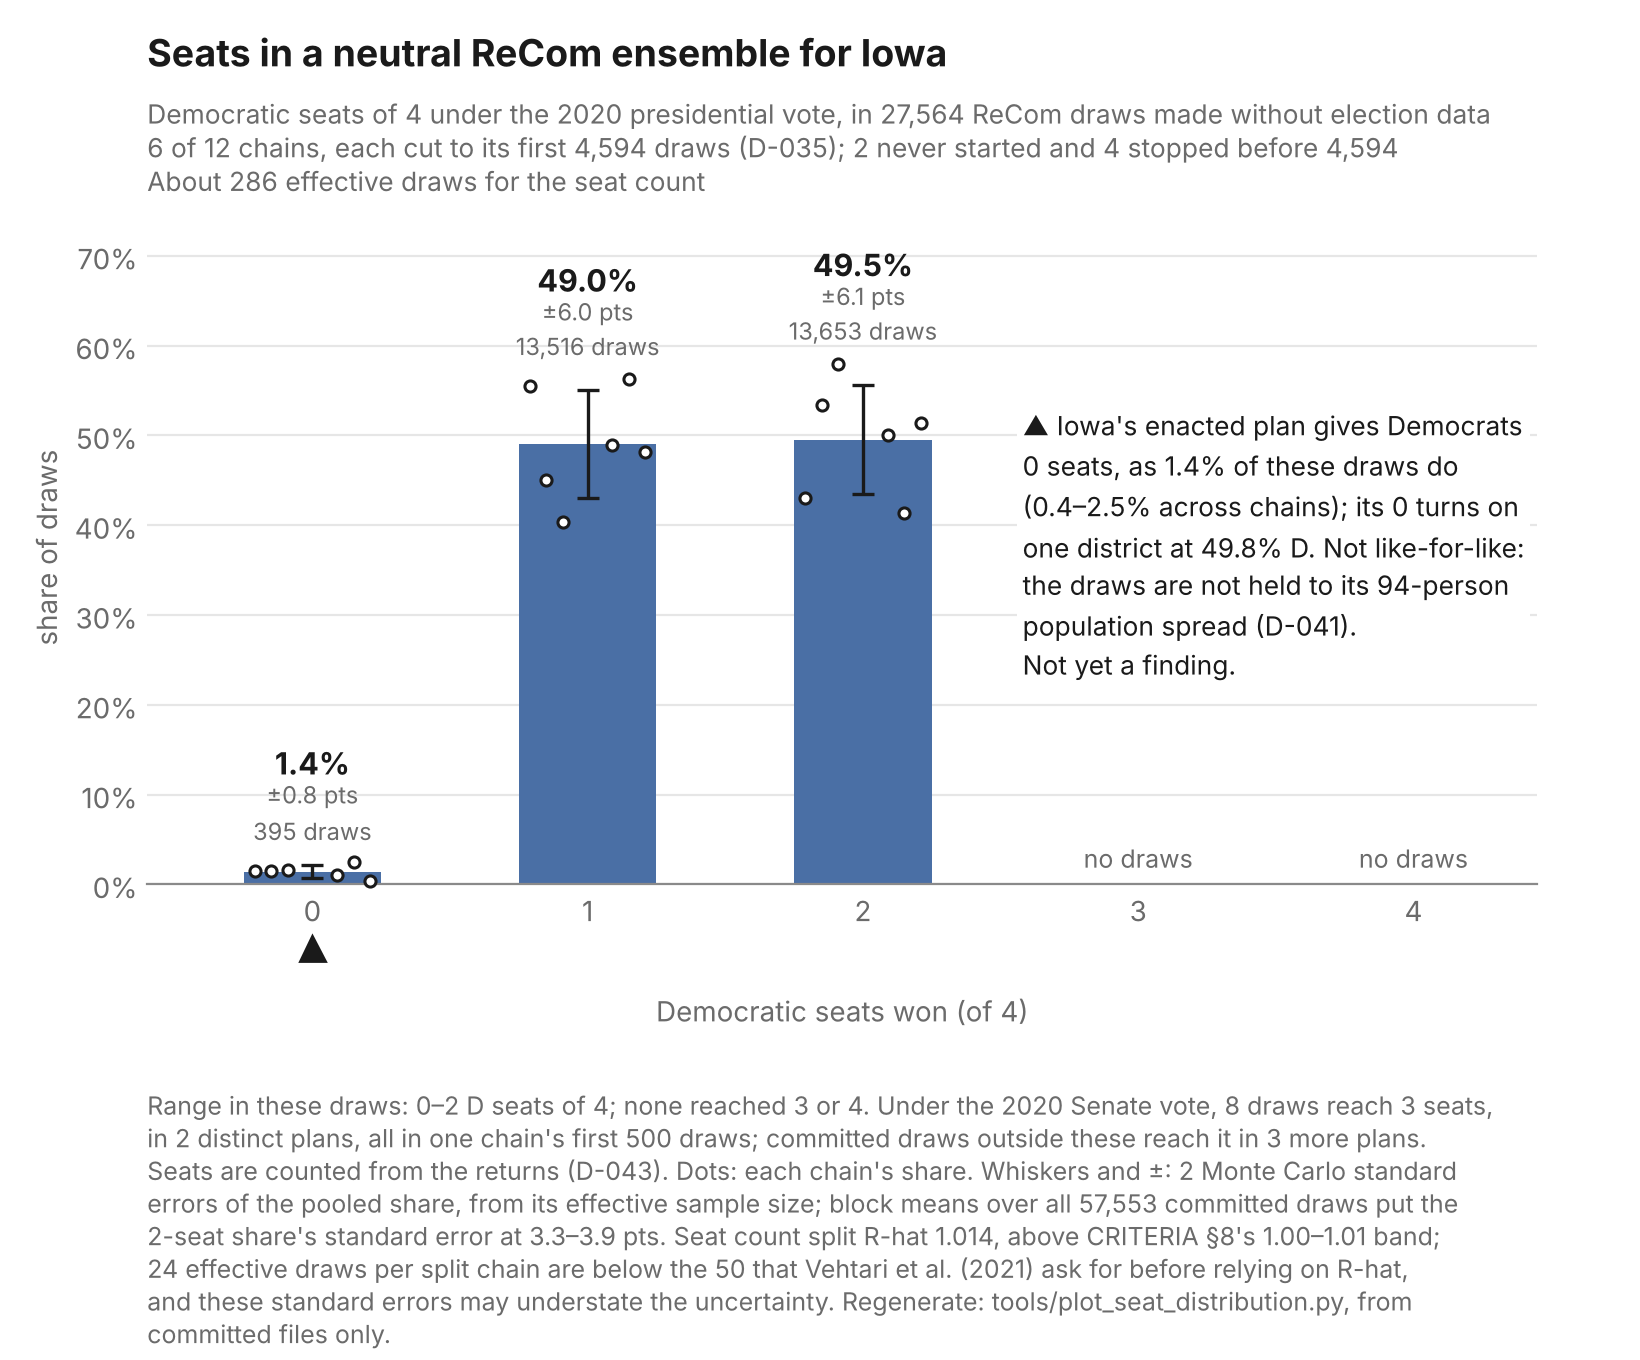
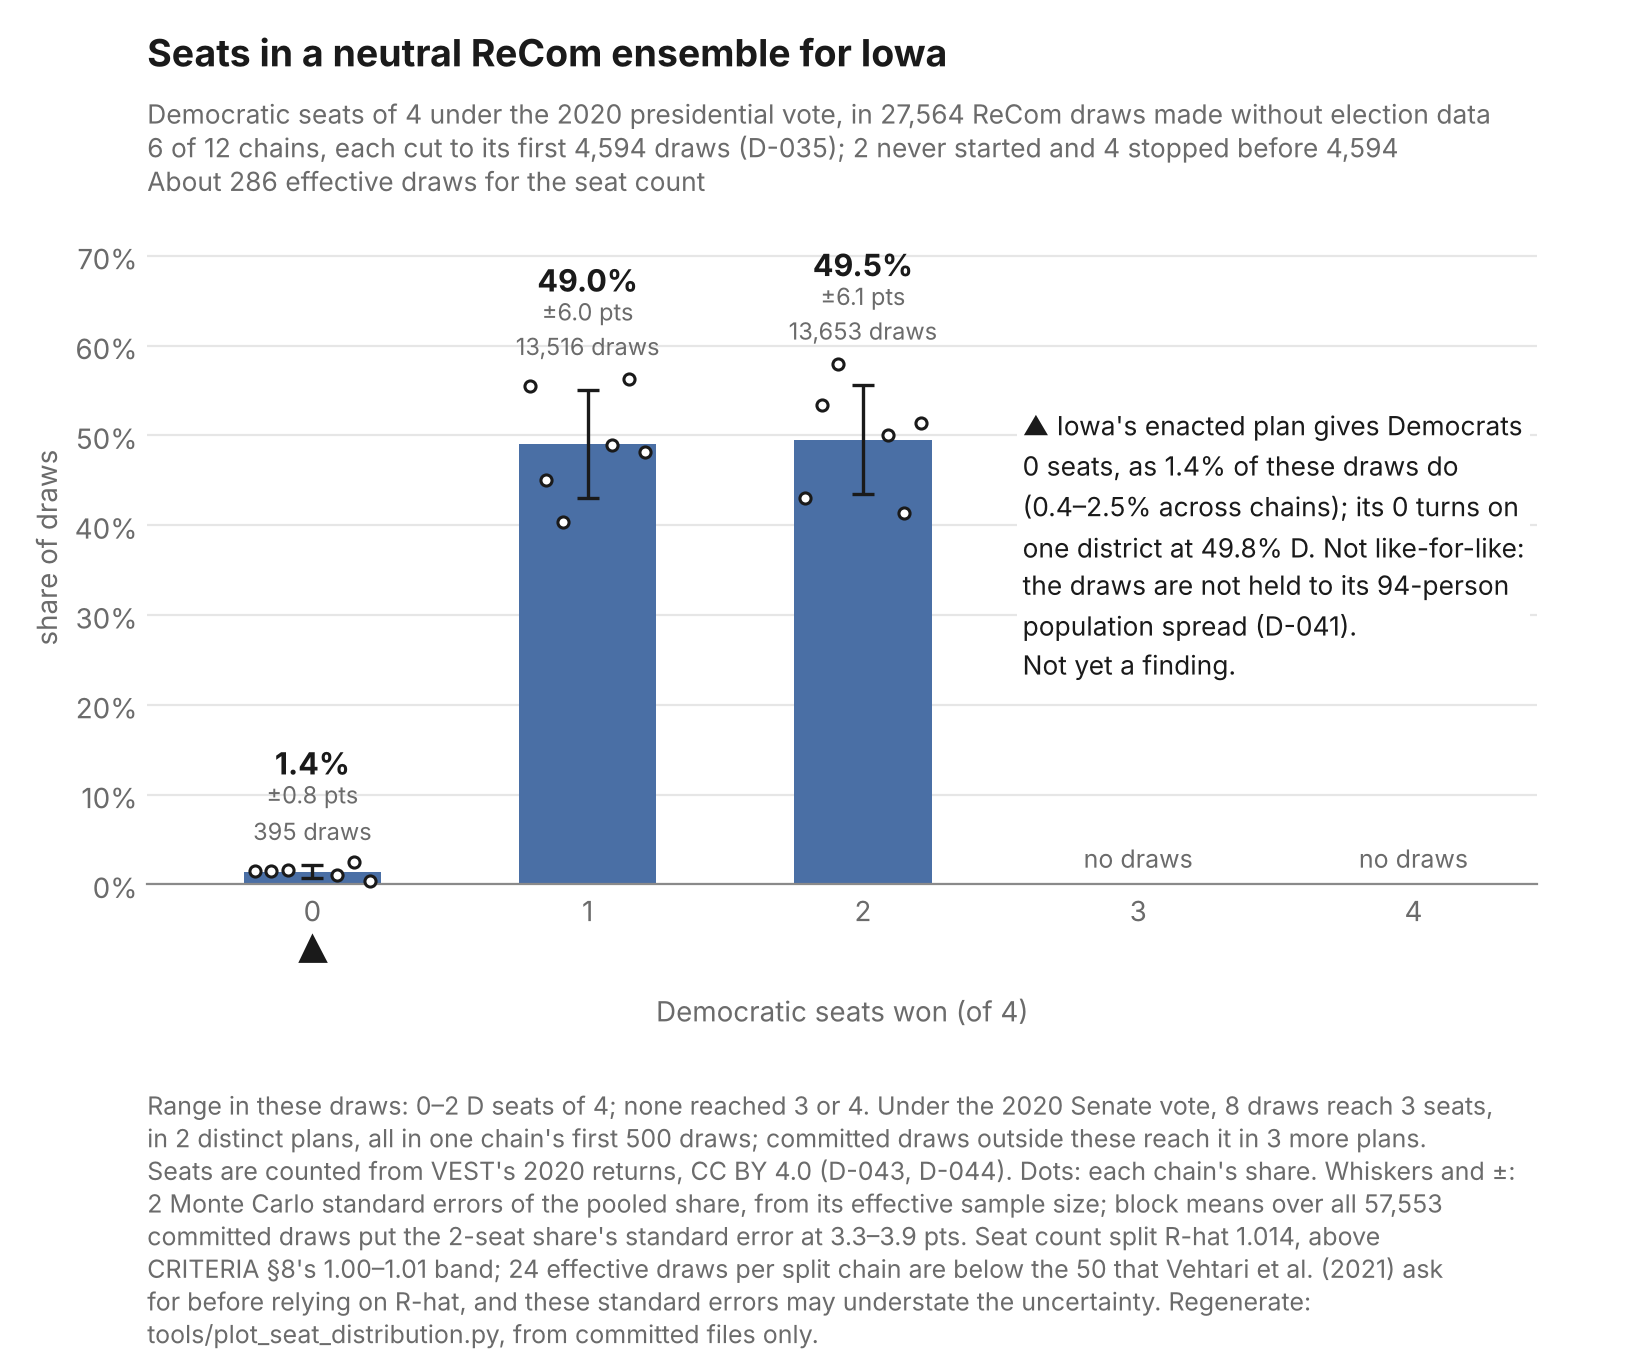
Credit VEST on the committed seat counts, as the owner chose (D-044)
The owner chose to commit the seat counts with VEST's credit and licence link,
and confirmed the decisions D-042 and D-043 quote. The counts are material
adapted from VEST's 2020 precinct returns, which VEST licenses under CC BY 4.0.

docs/first-result/ATTRIBUTION.md gives VEST's citation, the licence and its
link, what was changed, and VEST's disclaimer of warranties. The recount's
record carries the citation and the licence link; its write step rewrote the
record from the committed counts, which three full runs have written byte for
byte the same, so the draws were not regenerated for a change of credit. The
figure's footer credits VEST, since the figure travels without the README, and
the README's licence section names the licence, the adapted file and the
attribution where it said the returns carry no declared licence.

CRITERIA §9.1 and the other licence statements D-043 lists stay the owner's.

Claude-Session: https://claude.ai/code/session_016TQ4wY8qVW335hWHLfq9vg

Changed region(s): [[0.0933, 0.8338, 0.9018, 0.9882]]

diff --git a/tests/test_seat_distribution.py b/tests/test_seat_distribution.py
@@ -444,12 +444,23 @@ def test_the_count_s_record_names_the_draws_and_counts_read_here(tmp_path, monke
     assert (record["python"], record["gerrychain"]) == ("3.11.17", "1.0.0")
     # under Python 3.11, as the README pins it, every committed row reproduced
     assert set(record["largest_float_difference"].values()) == {0.0}
-    # the returns: VEST's version 49 file, which D-043 names, by the files read
+    # the returns: VEST's version 49 file, which D-043 names, by the files read,
+    # with the credit and licence link the counts carry as adapted material (D-044)
+    credit = ('Voting and Election Science Team, 2020, "2020 Precinct-Level Election '
+              'Results", https://doi.org/10.7910/DVN/K7760H, Harvard Dataverse, V49')
+    licence = "https://creativecommons.org/licenses/by/4.0/"
     assert record["returns_source"] == {
         "dataset": "doi:10.7910/DVN/K7760H", "version": "49.0", "file_id": 14304797,
         "file": "ia_2020.zip", "md5": "500252facae6107b93128406ebf5177b",
[3 lines of base64/hex data omitted]
+        "credit": credit, "license": f"CC BY 4.0, {licence}"}
+    # and beside the counts, the same credit, the licence and its link
+    notice = " ".join((S.RECOUNT.parent / "ATTRIBUTION.md").read_text().split())
+    for part in ('Voting and Election Science Team, 2020, "2020 Precinct-Level Election '
+                 'Results"', "https://doi.org/10.7910/DVN/K7760H", "Harvard Dataverse, V49",
+                 "CC BY 4.0", licence, "WITHOUT WARRANTY OF ANY KIND"):
+        assert part in notice
     for change, why in (
             (lambda r: r.update(draws_sha256="0" * 64), "a draws file other than"),
             (lambda r: r.update(counts_sha256="0" * 64), "a counts file other than"),
@@ -616,7 +627,8 @@ def test_the_figure_text_is_pinned(dist):
                    "reach it in 3 more plans.",
                    "2-seat share's standard error at 3.3–3.9 pts",
                    "R-hat 1.014, above CRITERIA §8's 1.00–1.01 band",
-                   "Seats are counted from the returns (D-043). Dots"):
+                   "Seats are counted from VEST's 2020 returns, CC BY 4.0 (D-043, "
+                   "D-044). Dots"):
         assert phrase in footer
     assert all(len(line) <= S.FOOTER_WIDTH for line in text["footer"])
 

diff --git a/tools/recount_seats.py b/tools/recount_seats.py
@@ -80,7 +80,9 @@ unpacked in ``data/raw/vest/``, ``tools/prepare_data.py``) and gerrychain as
 seeds, and the run then fails. No plan is kept: each is measured, counted, keyed
 and dropped. No vote count from the returns is written: the files hold seat
 counts, and the record holds the certified statewide totals the returns are
-checked against.
+checked against. The counts are adapted from VEST's dataset, which VEST licenses
+under CC BY 4.0; the record carries VEST's credit and the licence link, and
+``docs/first-result/ATTRIBUTION.md`` gives both, with what was changed (D-044).
 
 These are the committed draws regenerated, not new ones: the sampler is asked
 for each chain's committed draws and no more, and a draw that does not
@@ -128,14 +130,19 @@ VEST = tuple(ROOT / "data" / "raw" / "vest" / f"ia_2020.{ext}"
              for ext in ("zip", "dbf", "shp"))
 #: The file the committed count was made from (D-043): VEST's 2020 precinct
 #: returns on the Harvard Dataverse, with the MD5 Dataverse publishes for the
-#: zip and the SHA-256 of the two members tools/prepare_data.py reads. The
-#: record names it only when those members are the files read here
-#: (:func:`returns_source`).
+#: zip and the SHA-256 of the two members tools/prepare_data.py reads, and the
+#: credit and licence the counts carry as material adapted from it (D-044;
+#: docs/first-result/ATTRIBUTION.md). The record names it only when those
+#: members are the files read here (:func:`returns_source`).
 VEST_SOURCE = {"dataset": "doi:10.7910/DVN/K7760H", "version": "49.0",
                "file_id": 14304797, "file": "ia_2020.zip",
                "md5": "500252facae6107b93128406ebf5177b",
[3 lines of base64/hex data omitted]
+               "credit": "Voting and Election Science Team, 2020, \"2020 Precinct-Level "
+                         "Election Results\", https://doi.org/10.7910/DVN/K7760H, "
+                         "Harvard Dataverse, V49",
+               "license": "CC BY 4.0, https://creativecommons.org/licenses/by/4.0/"}
 
 #: Iowa's certified 2020 two-party totals, ``(D, R)``, as tools/prepare_data.py
 #: and tests/test_elections.py assert them. The unsigned metrics the draws file

diff --git a/tools/plot_seat_distribution.py b/tools/plot_seat_distribution.py
@@ -878,7 +878,8 @@ def figure_text(d: dict) -> dict:
     footer = textwrap.wrap(
         f"Range in these draws: {min(span)}–{max(span)} D seats of {k}"
         + (f"; none reached {' or '.join(map(str, missing))}." if missing else ".") + reach
-        + " Seats are counted from the returns (D-043). Dots: each chain's share. "
+        + " Seats are counted from VEST's 2020 returns, CC BY 4.0 (D-043, D-044). "
+        "Dots: each chain's share. "
         "Whiskers and ±: 2 Monte Carlo standard errors of the pooled share, from "
         f"its effective sample size{block}. Seat\u00a0count split R-hat {rhat:.3f}, {where} "
         f"CRITERIA §8's {RHAT_BAND[0]:.2f}–{RHAT_BAND[1]:.2f} band"

diff --git a/docs/DECISIONS.md b/docs/DECISIONS.md
@@ -1344,6 +1344,8 @@ on population equality matching "on a constraint", which read the enacted plan's
 
 **Date:** 2026-10-11 · **Phase:** post-release
 
+*Since:* the owner confirmed both decisions below on 2026-10-12 (D-044).
+
 The decision log's rule is that entries aren't rewritten, and a reversal is a new
 entry (`CLAUDE.md`, and this file's preamble). D-039 and D-041 were written in the
 change that became pull request #7, which has not merged, and both were corrected
@@ -1389,6 +1391,10 @@ four.
 ## D-043 — Every committed Iowa draw's seats are counted from the returns, and the reading agrees
 
 **Date:** 2026-10-11 · **Phase:** post-release
+
+*Since:* the owner confirmed both decisions below and answered the licence
+question it leaves for merge: the counts carry VEST's credit and the licence link
+(D-044).
 
 D-039 reads each draw's Democratic seats off its committed |efficiency gap|,
 because the draws file holds metrics, not plans. Its fourth audit showed that the
@@ -1538,3 +1544,43 @@ counts; and named one owner's decision of two. The fifth agent audit in
 The second version called the licence statements stale, when version 48's own
 record already stated CC BY 4.0, and its list of them was incomplete; the
 Pre-Submission Peer Reviewer agent's second review showed both.
+
+## D-044 — The seat counts carry VEST's credit and its licence link
+
+**Date:** 2026-10-12 · **Phase:** post-release
+
+D-043 left two questions for the owner, to answer before merge: whether the
+committed seat counts need VEST's credit and a licence link under CC BY 4.0, and
+whether they are election data under `docs/CRITERIA.md` §9.1. It also asked the
+owner to confirm the decisions D-042 and D-043 quote.
+
+*Chosen, by the owner,* on 2026-10-12, in conversation with the author: "Commit
+the seat counts with a VEST credit and license link. I confirm the decisions." So
+the counts are committed as material adapted from VEST's dataset, which VEST
+licenses under CC BY 4.0, and the four decisions D-042 and D-043 quote stand as
+recorded there. The author carried the credit and the link to where the counts
+and what is drawn from them are read:
+
+- `docs/first-result/ATTRIBUTION.md` gives VEST's citation, the licence and its
+  link, what was changed (the precinct returns summed to counties, then seats
+  counted per draw; no vote count kept), and VEST's disclaimer of warranties;
+- the recount's record, `docs/first-result/ia-seats-v2.json`, carries the
+  citation and the licence link in `returns_source`. The recount's own write
+  step wrote it from the committed counts and the last full run's float
+  differences (all 0.0), without regenerating the draws again: three full runs
+  have written the counts byte for byte the same, and a credit changes nothing
+  they measure;
+- the first-result figure's footer credits VEST and names the licence, because
+  the figure travels without the README;
+- the README's licence section names VEST's licence, the adapted file and the
+  attribution, where it said the returns carry no declared licence.
+
+*Alternatives:* committing the counts without a credit, or withdrawing them so
+that only the reading stands. The owner chose neither.
+
+*Still the owner's:* `docs/CRITERIA.md` §9.1, which still says no licence is
+declared, and the other statements D-043 lists (`CITATION.cff`, the release notes
+in `.github/workflows/release.yml`, the comments in `.github/workflows/tests.yml`,
+`tests/dataguard.py` and `tests/test_experiment_3_plans.py`, and D-039's "the
+returns cannot be redistributed"), and which licence, if any, the repository
+offers its own adaptation, the counts, under.

diff --git a/README.md b/README.md
@@ -13,7 +13,7 @@ map adoption.**
 
 ## First result
 
-![Bar chart of Democratic seats won, of 4, across 27,564 neutral ReCom draws for Iowa under the 2020 presidential vote: 0 seats in 1.4% of draws (±0.8 points), 1 seat in 49.0% and 2 seats in 49.5%, each of those two with whiskers of about ±6 points (2 Monte Carlo standard errors by one estimate; others run higher), and none at 3 or 4; the six chains range from 41% to 58% at 2 seats and from 0.4% to 2.5% at 0. Iowa's enacted plan is marked at 0 seats; the figure's note says its 0 turns on one district at 49.8% Democratic, that the comparison is not like-for-like because the draws are not held to the plan's 94-person population spread, and that it is not yet a finding. The footer says each draw's seats are counted from the returns (D-043).](docs/figures/ia-neutral-seat-distribution.png)
+![Bar chart of Democratic seats won, of 4, across 27,564 neutral ReCom draws for Iowa under the 2020 presidential vote: 0 seats in 1.4% of draws (±0.8 points), 1 seat in 49.0% and 2 seats in 49.5%, each of those two with whiskers of about ±6 points (2 Monte Carlo standard errors by one estimate; others run higher), and none at 3 or 4; the six chains range from 41% to 58% at 2 seats and from 0.4% to 2.5% at 0. Iowa's enacted plan is marked at 0 seats; the figure's note says its 0 turns on one district at 49.8% Democratic, that the comparison is not like-for-like because the draws are not held to the plan's 94-person population spread, and that it is not yet a finding. The footer says each draw's seats are counted from VEST's 2020 returns, licensed CC BY 4.0 (D-043, D-044).](docs/figures/ia-neutral-seat-distribution.png)
 
 Across 27,564 draws from a ReCom sampler with no access to election data, **a
 neutral ensemble for Iowa gives Democrats 0–2 of 4 seats under the 2020
@@ -444,7 +444,15 @@ validated, not for litigation, advocacy, or map adoption.**
 Apache License 2.0 — see `LICENSE`.
 
 This covers the code and documentation in this repository. It does **not** cover
-the input data, none of which is redistributed here. Census inputs are public
-domain (17 U.S.C. §105); the election returns carry no declared licence at all,
-which is why `data/` is gitignored and `tools/fetch_raw.sh` sends you to the
-source. See `docs/CRITERIA.md` §9.1.
+the input data, which are not redistributed here: `data/` is gitignored, and
+`tools/fetch_raw.sh` sends you to the sources. Census inputs are public domain
+(17 U.S.C. §105). The election returns are the Voting and Election Science
+Team's *2020 Precinct-Level Election Results*
+(<https://doi.org/10.7910/DVN/K7760H>), which VEST licenses under CC BY 4.0
+(<https://creativecommons.org/licenses/by/4.0/>).
+
+One committed file is adapted from them: `docs/first-result/ia-seats-v2.csv.gz`,
+the seat counts of every committed Iowa draw. `docs/first-result/ATTRIBUTION.md`
+gives VEST's credit, the licence link and what was changed (D-044), and the
+first-result figure credits VEST in its footer. The data policy in
+`docs/CRITERIA.md` §9.1 was written before VEST's licence was read (D-043).

diff --git a/docs/progress.md b/docs/progress.md
@@ -2487,17 +2487,19 @@ reads: its SHA-256, configuration, chains, contests and certified totals.
 
 The returns are VEST's Iowa file as Harvard Dataverse served it on 2026-10-11:
 dataset version 49, uploaded 2026-10-03, whose attribute table holds the same
-values as version 48's (D-043). Every committed |efficiency gap| and
-|mean-median|, under both contests, reproducing exactly on every plan the chains
-visit ties the count to the district totals the draws were measured with.
-|Efficiency gap| alone could not: it does not move when an even number of votes
-shifts between districts the same party wins, or when the parties trade votes
-across two counties, wherever no district changes hands. Both metrics are
-unsigned, so which party is which is fixed separately: the recount refuses unless
-each contest's statewide two-party totals equal the certified ones. The code does
-not check the county totals themselves; the redistricting scientist agent compared
-all 99 with the Secretary of State's canvass under both contests and found none
-different, which the GIS QA Engineer has not confirmed.
+values as version 48's (D-043). VEST licenses it under CC BY 4.0, and the counts
+carry VEST's credit and the licence link (`docs/first-result/ATTRIBUTION.md`,
+D-044). Every committed |efficiency gap| and |mean-median|, under both contests,
+reproducing exactly on every plan the chains visit ties the count to the district
+totals the draws were measured with. |Efficiency gap| alone could not: it does not
+move when an even number of votes shifts between districts the same party wins, or
+when the parties trade votes across two counties, wherever no district changes
+hands. Both metrics are unsigned, so which party is which is fixed separately: the
+recount refuses unless each contest's statewide two-party totals equal the
+certified ones. The code does not check the county totals themselves; the
+redistricting scientist agent compared all 99 with the Secretary of State's
+canvass under both contests and found none different, which the GIS QA Engineer
+has not confirmed.
 
 **Distinct plans, counted rather than bounded.** Earlier versions of this section
 counted distinct rows of the committed metrics and called them a lower bound on

diff --git a/docs/first-result/ATTRIBUTION.md b/docs/first-result/ATTRIBUTION.md
@@ -1,0 +1,33 @@
+# Attribution — `ia-seats-v2.csv.gz`
+
+The seat counts in `ia-seats-v2.csv.gz`, in this directory, are adapted from:
+
+> Voting and Election Science Team, 2020, "2020 Precinct-Level Election Results",
+> <https://doi.org/10.7910/DVN/K7760H>, Harvard Dataverse, V49 (file `ia_2020.zip`,
+> Iowa).
+
+VEST licenses that dataset under the Creative Commons Attribution 4.0
+International licence (CC BY 4.0): <https://creativecommons.org/licenses/by/4.0/>.
+
+**What was changed.** The file holds no vote count from the dataset.
+`tools/prepare_data.py` summed Iowa's precinct returns to its 99 counties, and
+`tools/recount_seats.py` counted, for each committed draw of the v2 ensemble, how
+many districts the Democratic candidate won under the 2020 presidential vote and
+under the 2020 U.S. Senate vote (D-043). Beside each draw's two counts the file
+holds a key for its plan, which comes from the plan alone, not from the returns.
+The record beside it, `ia-seats-v2.json`, names the dataset, version and file the
+counts were made from, with their hashes, and carries the same credit and licence
+link.
+
+**No warranty.** VEST's dataset carries this disclaimer: "THE DATA ARE PROVIDED
+“AS IS” WITHOUT WARRANTY OF ANY KIND. WE MAKE NO AND DISCLAIM ALL WARRANTIES,
+EXPRESS OR IMPLIED, INCLUDING THE IMPLIED WARRANTIES OF MERCHANTABILITY, FITNESS
+FOR A PARTICULAR PURPOSE AND NONINFRINGEMENT, WITH RESPECT TO THESE DATA. WE MAKE
+NO REPRESENTATIONS OR WARRANTIES AS TO THE QUALITY, SUITABILITY OR ADEQUACY OF
+THESE DATA FOR ANY PURPOSE OR USE." CC BY 4.0 has its own disclaimer of
+warranties, in its Section 5.
+
+The figure drawn from these counts, `docs/figures/ia-neutral-seat-distribution.png`,
+credits VEST and the licence in its footer. This repository's Apache License 2.0
+covers its code and documentation; it is not the licence of VEST's data. The
+owner chose to commit the counts with this credit and licence link (D-044).
